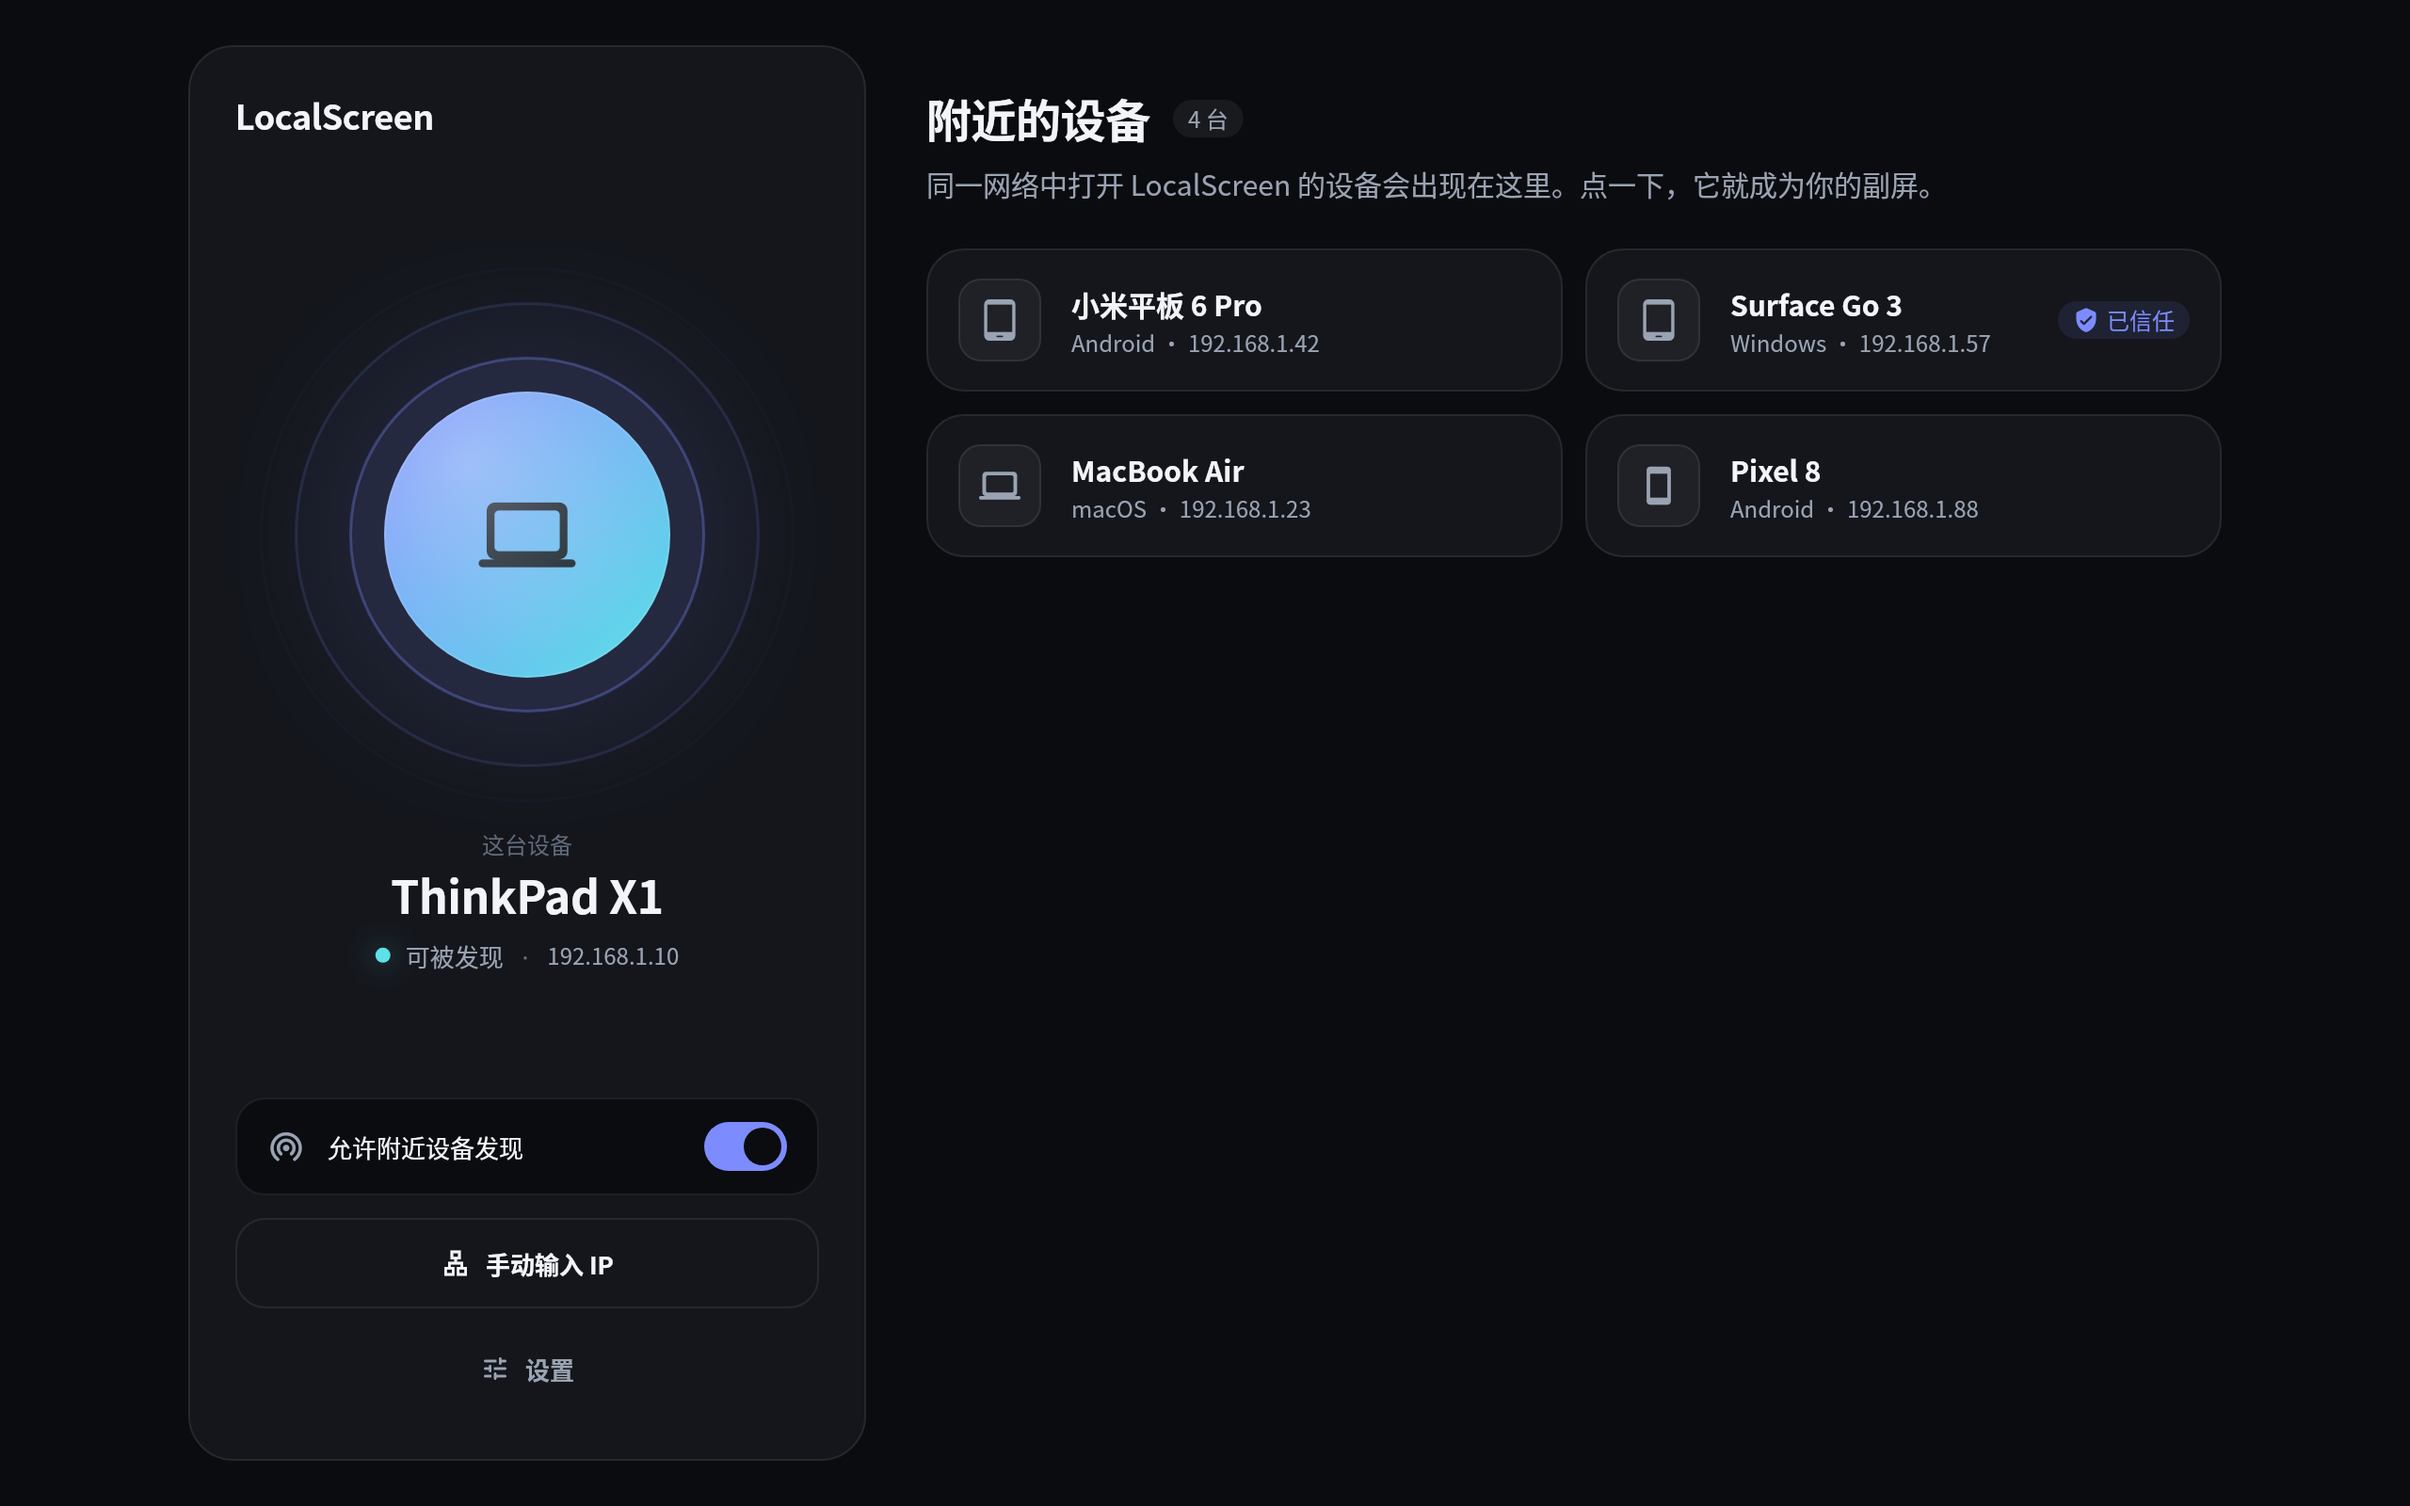
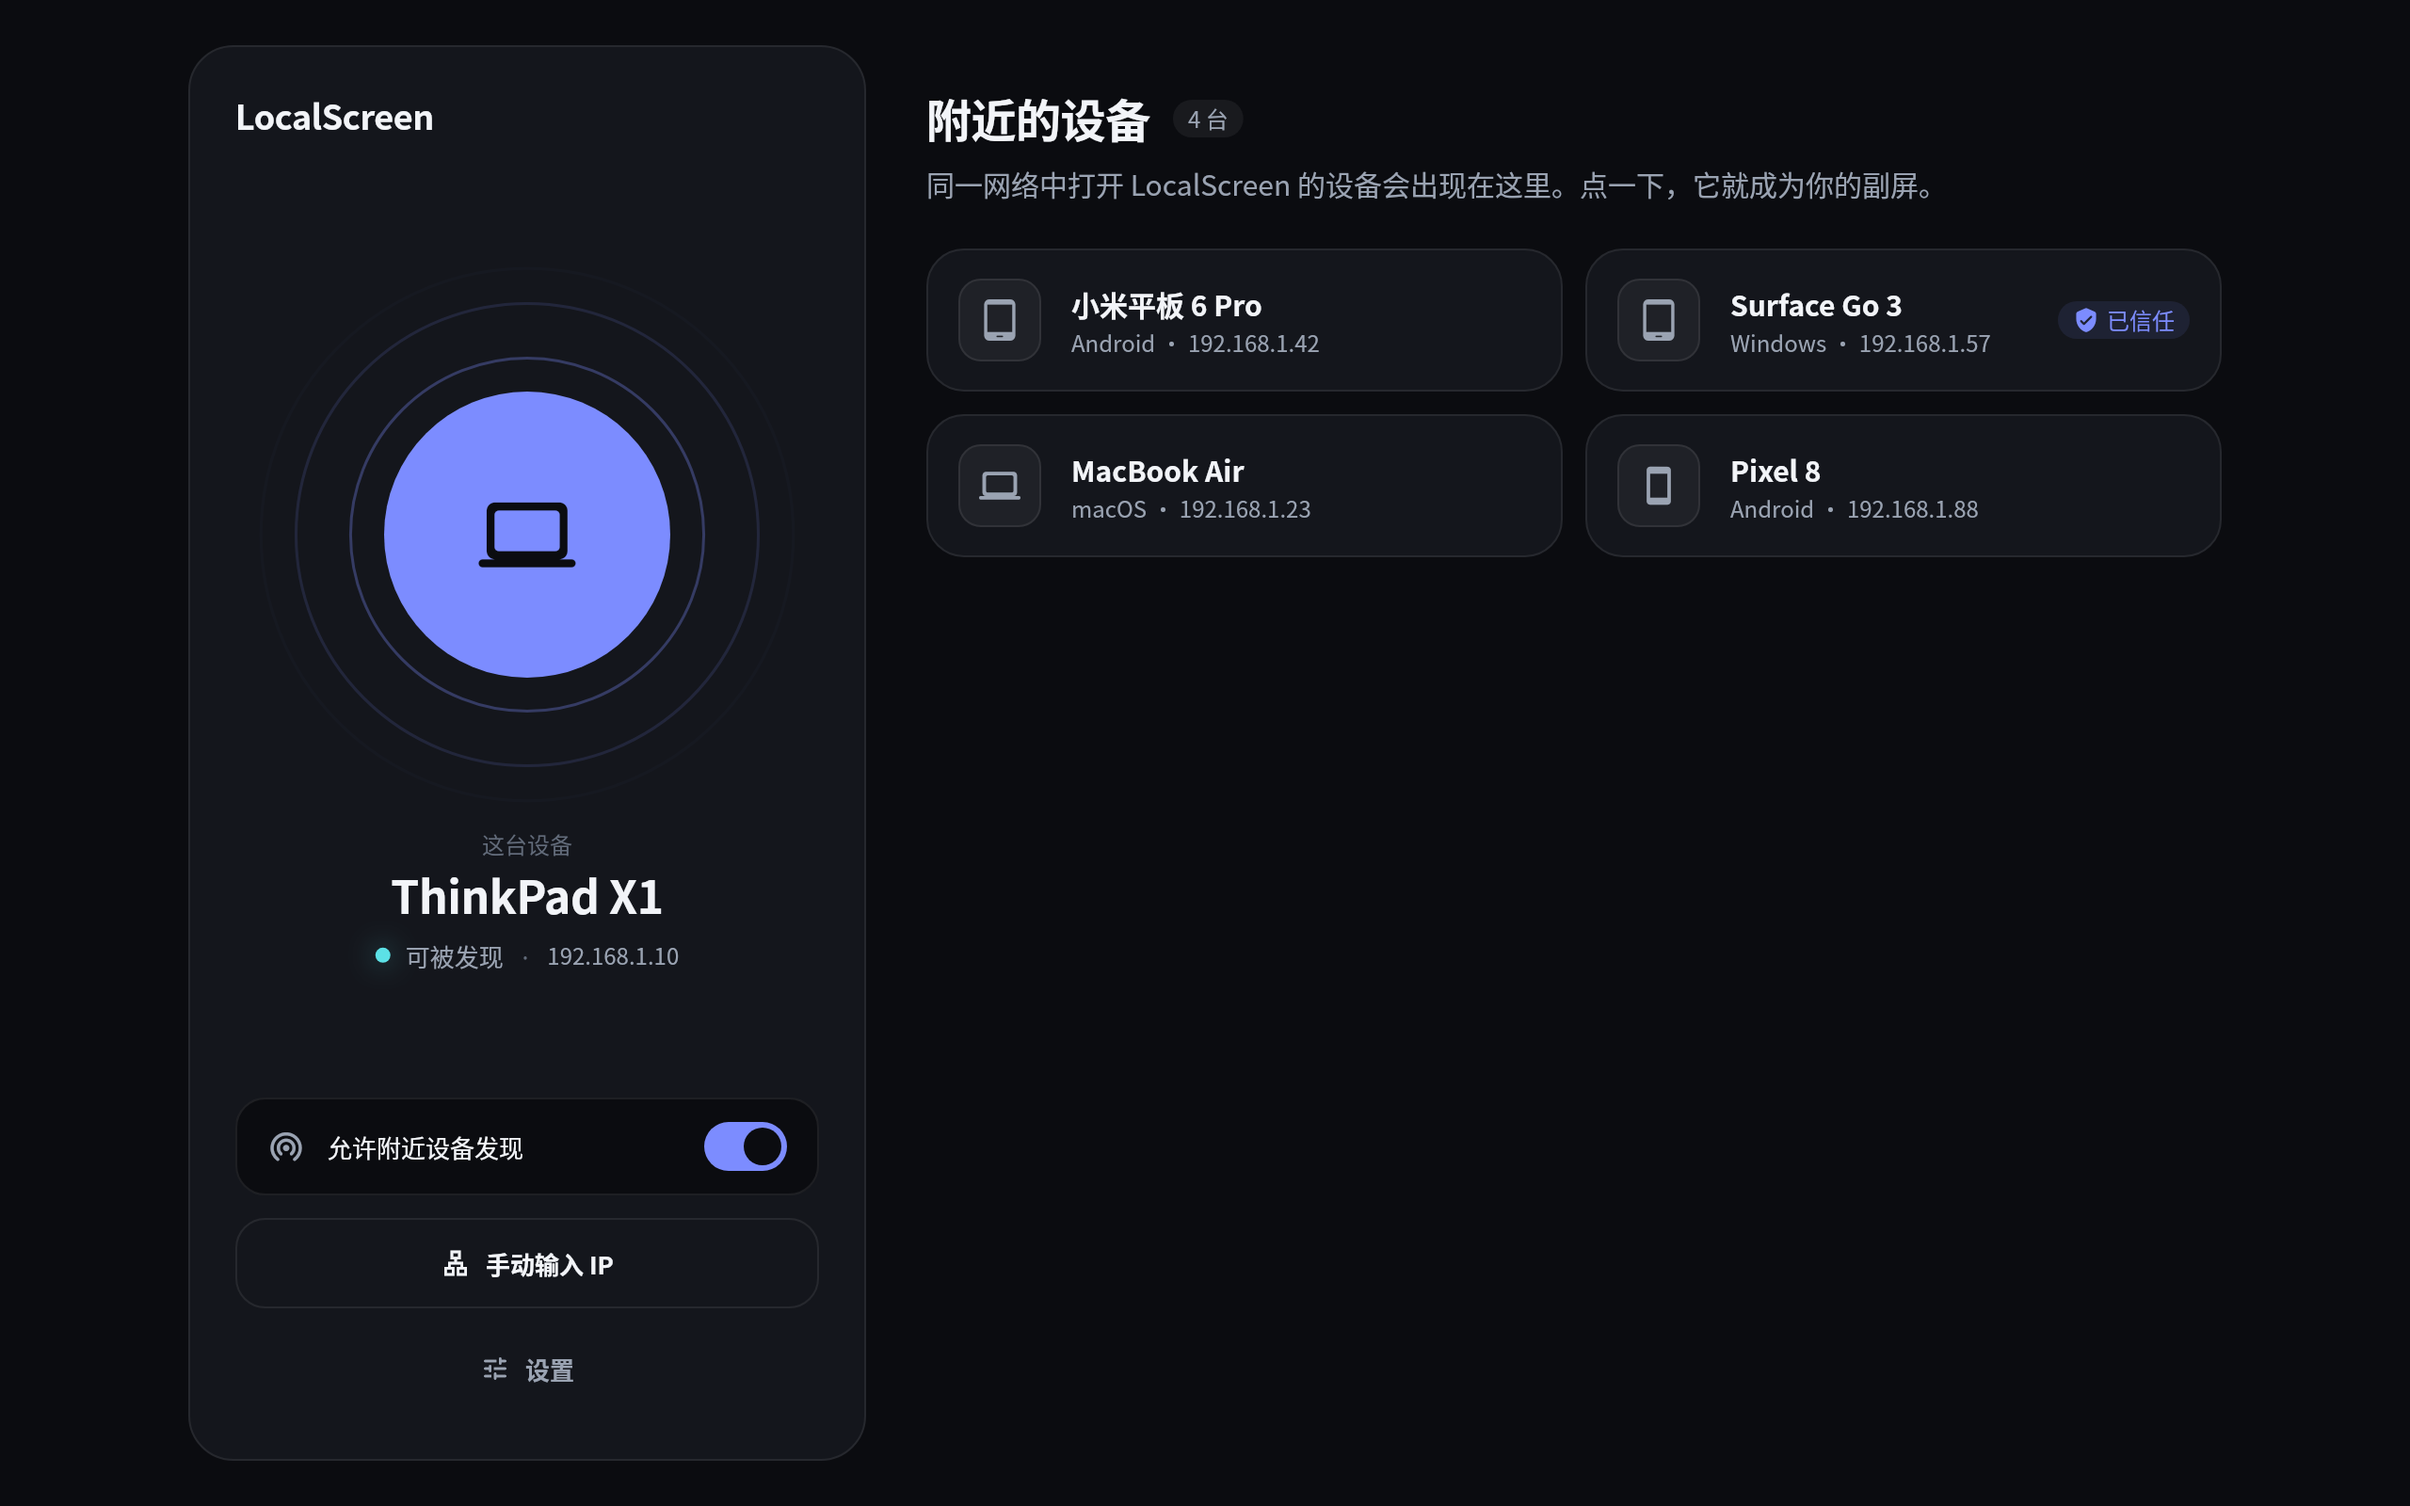
Use flat colours: no gradients or glows on buttons and controls
Primary buttons, the local-device circle, the focused PIN cell and the
switch were filled with an accent-to-cyan gradient and lit with an
accent glow. They are now solid colours, in the plain style of
LocalSend: a solid accent fill that steps one notch towards the text
colour under the pointer, and no outer glow. The ripple rings lose their
soft halo too.

DESIGN.md is updated to match, and the golden screenshots and update
screenshots are regenerated.

Changed region(s): [[0.125, 0.2188, 0.3125, 0.4688]]

diff --git a/lib/app/theme/components/ls_orb.dart b/lib/app/theme/components/ls_orb.dart
@@ -168,15 +168,6 @@ class _RipplePainter extends CustomPainter {
         ..style = PaintingStyle.stroke
         ..strokeWidth = stroke
         ..color = color.withValues(alpha: 0.42 * fade);
-      final halo = Paint()
-        ..shader = RadialGradient(
-          colors: [
-            color.withValues(alpha: 0),
-            color.withValues(alpha: 0.10 * fade),
-          ],
-          stops: const [0.6, 1],
-        ).createShader(Rect.fromCircle(center: center, radius: radius));
-      canvas.drawCircle(center, radius, halo);
       canvas.drawCircle(center, radius, ring);
     }
   }
@@ -186,8 +177,8 @@ class _RipplePainter extends CustomPainter {
       old.color != color || old.coreRadius != coreRadius || old.curve != curve;
 }
 
-/// The local device's light orb: signature gradient, inner highlight,
-/// steady glow and three ambient ripples.
+/// The local device's orb: a flat accent circle with the device icon and
+/// three ambient ripples.
 ///
 /// When [active] is false (not discoverable) the ripples stop and the orb
 /// desaturates.
@@ -216,28 +207,11 @@ class LsOrb extends StatelessWidget {
     final ls = context.ls;
     final c = ls.colors;
     final duration = context.motionDuration(ls.motion.slow);
-    final highlight = ls.brightness == Brightness.dark ? c.textPrimary : c.surface;
     final core = Container(
       width: size,
       height: size,
-      decoration: BoxDecoration(
-        shape: BoxShape.circle,
-        gradient: ls.signatureGradient,
-        boxShadow: [BoxShadow(color: c.accent.withValues(alpha: 0.32), blurRadius: size * 0.45)],
-      ),
-      foregroundDecoration: BoxDecoration(
-        shape: BoxShape.circle,
-        // Soft specular highlight for the "light" feel.
-        gradient: RadialGradient(
-          center: const Alignment(-0.4, -0.5),
-          radius: 0.75,
-          colors: [highlight.withValues(alpha: 0.34), highlight.withValues(alpha: 0)],
-        ),
-        border: Border.all(color: highlight.withValues(alpha: 0.12), width: ls.size.hairline),
-      ),
-      child: icon == null
-          ? null
-          : Icon(icon, size: size * 0.34, color: c.onAccent.withValues(alpha: 0.88)),
+      decoration: BoxDecoration(shape: BoxShape.circle, color: c.accent),
+      child: icon == null ? null : Icon(icon, size: size * 0.34, color: c.onAccent),
     );
     return LsRipples(
       coreSize: size,

diff --git a/lib/app/theme/components/ls_button.dart b/lib/app/theme/components/ls_button.dart
@@ -7,7 +7,7 @@ import 'ls_spinner.dart';
 
 /// Visual weight of an [LsButton].
 enum LsButtonVariant {
-  /// Signature-gradient fill; one per screen.
+  /// Solid accent fill; one per screen.
   primary,
 
   /// Hairline outline on surface.
@@ -141,12 +141,10 @@ class LsButton extends StatelessWidget {
               ),
               decoration: BoxDecoration(
                 color: style.fill,
-                gradient: style.gradient,
                 borderRadius: BorderRadius.circular(radius),
                 border: style.border == null
                     ? null
                     : Border.all(color: style.border!, width: ls.size.hairline),
-                boxShadow: style.shadow,
               ),
               child: content,
             ),
@@ -158,30 +156,18 @@ class LsButton extends StatelessWidget {
 }
 
 class _ButtonStyle {
-  const _ButtonStyle({
-    required this.foreground,
-    this.fill,
-    this.gradient,
-    this.border,
-    this.shadow,
-  });
+  const _ButtonStyle({required this.foreground, this.fill, this.border});
 
   final Color foreground;
   final Color? fill;
-  final Gradient? gradient;
   final Color? border;
-  final List<BoxShadow>? shadow;
 
   static _ButtonStyle resolve(LsTokens ls, LsButtonVariant variant, LsInteraction s) {
     final c = ls.colors;
     final lit = s.highlighted;
     switch (variant) {
       case LsButtonVariant.primary:
-        return _ButtonStyle(
-          foreground: c.onAccent,
-          gradient: ls.signatureGradient,
-          shadow: lit ? ls.glow : const [],
-        );
+        return _ButtonStyle(foreground: c.onAccent, fill: lit ? ls.accentHover : c.accent);
       case LsButtonVariant.secondary:
         return _ButtonStyle(
           foreground: c.textPrimary,

diff --git a/lib/app/theme/tokens.dart b/lib/app/theme/tokens.dart
@@ -328,18 +328,9 @@ class LsTokens extends ThemeExtension<LsTokens> {
   final LsTypography text;
   final LsMotion motion;
 
-  /// Signature `accent → accentAlt` gradient at 135°. Only for the local orb,
-  /// primary buttons and the focused PIN cell.
-  LinearGradient get signatureGradient => LinearGradient(
-    begin: Alignment.topLeft,
-    end: Alignment.bottomRight,
-    colors: [colors.accent, colors.accentAlt],
-  );
-
-  /// The "active" glow: accent at 24 % with a 32 px blur.
-  List<BoxShadow> get glow => [
-    BoxShadow(color: colors.accent.withValues(alpha: 0.24), blurRadius: 32),
-  ];
+  /// [colors.accent] as it looks under the pointer or a press: a step
+  /// towards the text colour, so it reads as lit in both themes.
+  Color get accentHover => Color.lerp(colors.accent, colors.textPrimary, 0.12)!;
 
   @override
   LsTokens copyWith({LsColors? colors, List<BoxShadow>? floatingShadow}) {

diff --git a/lib/app/theme/components/ls_pin_input.dart b/lib/app/theme/components/ls_pin_input.dart
@@ -202,21 +202,17 @@ class _PinCell extends StatelessWidget {
       ),
     );
     if (active) {
-      // Focused cell: signature-gradient ring plus the soft accent glow.
+      // Focused cell: a solid accent ring.
       return Container(
         width: width,
         height: height,
-        padding: EdgeInsets.all(stroke),
+        alignment: Alignment.center,
         decoration: BoxDecoration(
-          gradient: ls.signatureGradient,
+          color: fill,
           borderRadius: BorderRadius.circular(r),
-          boxShadow: ls.glow,
+          border: Border.all(color: c.accent, width: stroke),
         ),
-        child: Container(
-          alignment: Alignment.center,
-          decoration: BoxDecoration(color: fill, borderRadius: BorderRadius.circular(r - stroke)),
-          child: content,
-        ),
+        child: content,
       );
     }
     return AnimatedContainer(

diff --git a/lib/app/theme/components/ls_switch.dart b/lib/app/theme/components/ls_switch.dart
@@ -40,10 +40,9 @@ class LsSwitch extends StatelessWidget {
               padding: EdgeInsets.all(pad),
               decoration: BoxDecoration(
                 color: value
-                    ? c.accent
+                    ? (s.highlighted ? ls.accentHover : c.accent)
                     : c.textTertiary.withValues(alpha: s.highlighted ? 0.42 : 0.3),
                 borderRadius: BorderRadius.circular(ls.radius.full),
-                boxShadow: value && s.highlighted ? ls.glow : null,
               ),
               child: AnimatedAlign(
                 duration: duration,
